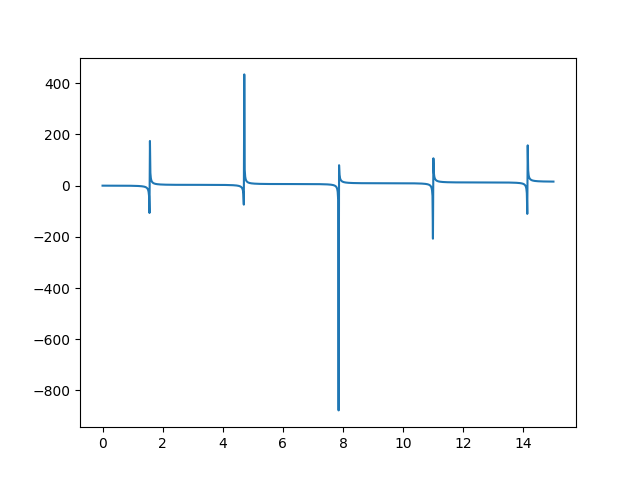
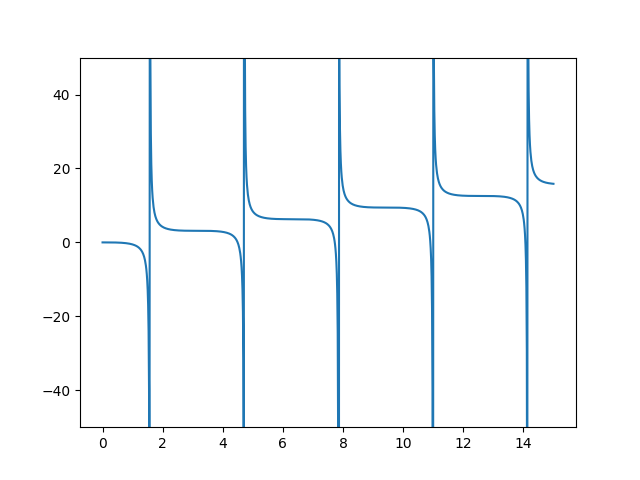
:construction: WIP : 二分法が収束しない

diff --git a/ex1/python/ex1-2.py b/ex1/python/ex1-2.py
@@ -1,1 +1,61 @@
 #! /bin/python3
+import numpy as np
+
+
+def f(x):
+    return x - np.tan(x)
+
+
+# 二分法
+def dichotomy(max_x, min_x, error):
+    # 同符号の場合はFalseを返す
+    if f(max_x) * f(min_x) > 0:
+        return False
+
+    num = 0
+    mid_x = (max_x + min_x) / 2
+    while(abs(f(mid_x)) > error):
+        if(f(min_x) * f(mid_x) >= 0):
+            min_x = mid_x
+        else:
+            max_x = mid_x
+
+        mid_x = (max_x + min_x) / 2
+
+        if(num > 1000):
+            print("error : time out")
+            return
+
+        num = num + 1
+
+    return mid_x
+
+
+def main():
+    step = 0.0001
+    min_x = 0
+    max_x = min_x + step
+
+    while(max_x < 15):
+        if(f(min_x) == 0.0):
+            min_x = min_x + step
+            max_x = max_x + step
+            continue
+
+        if(f(min_x) * f(max_x) < 0):
+            print(min_x, max_x, f(min_x), f(max_x))
+            # min_x = dichotomy(f, max_x, min_x, 0.001)
+            print(dichotomy(max_x, min_x, 0.01))
+            min_x = max_x
+            max_x = min_x
+        max_x = max_x + step
+
+
+if __name__ == "__main__":
+    main()
+    # min_x = 4.3
+    # max_x = 4.6
+
+    # print("f(min_x) = " + str(f(min_x)))
+    # print("f(max_x) = " + str(f(max_x)))
+    # print(dichotomy(f, 4.3, 4.6, 0.0001))

diff --git a/ex1/python/ex1-1.py b/ex1/python/ex1-1.py
@@ -7,6 +7,7 @@ def main():
     x = np.linspace(0, 15, 1000)
     f = x - np.tan(x)
 
+    plt.ylim(-50, 50)
     plt.plot(x, f)
     plt.show()
 
